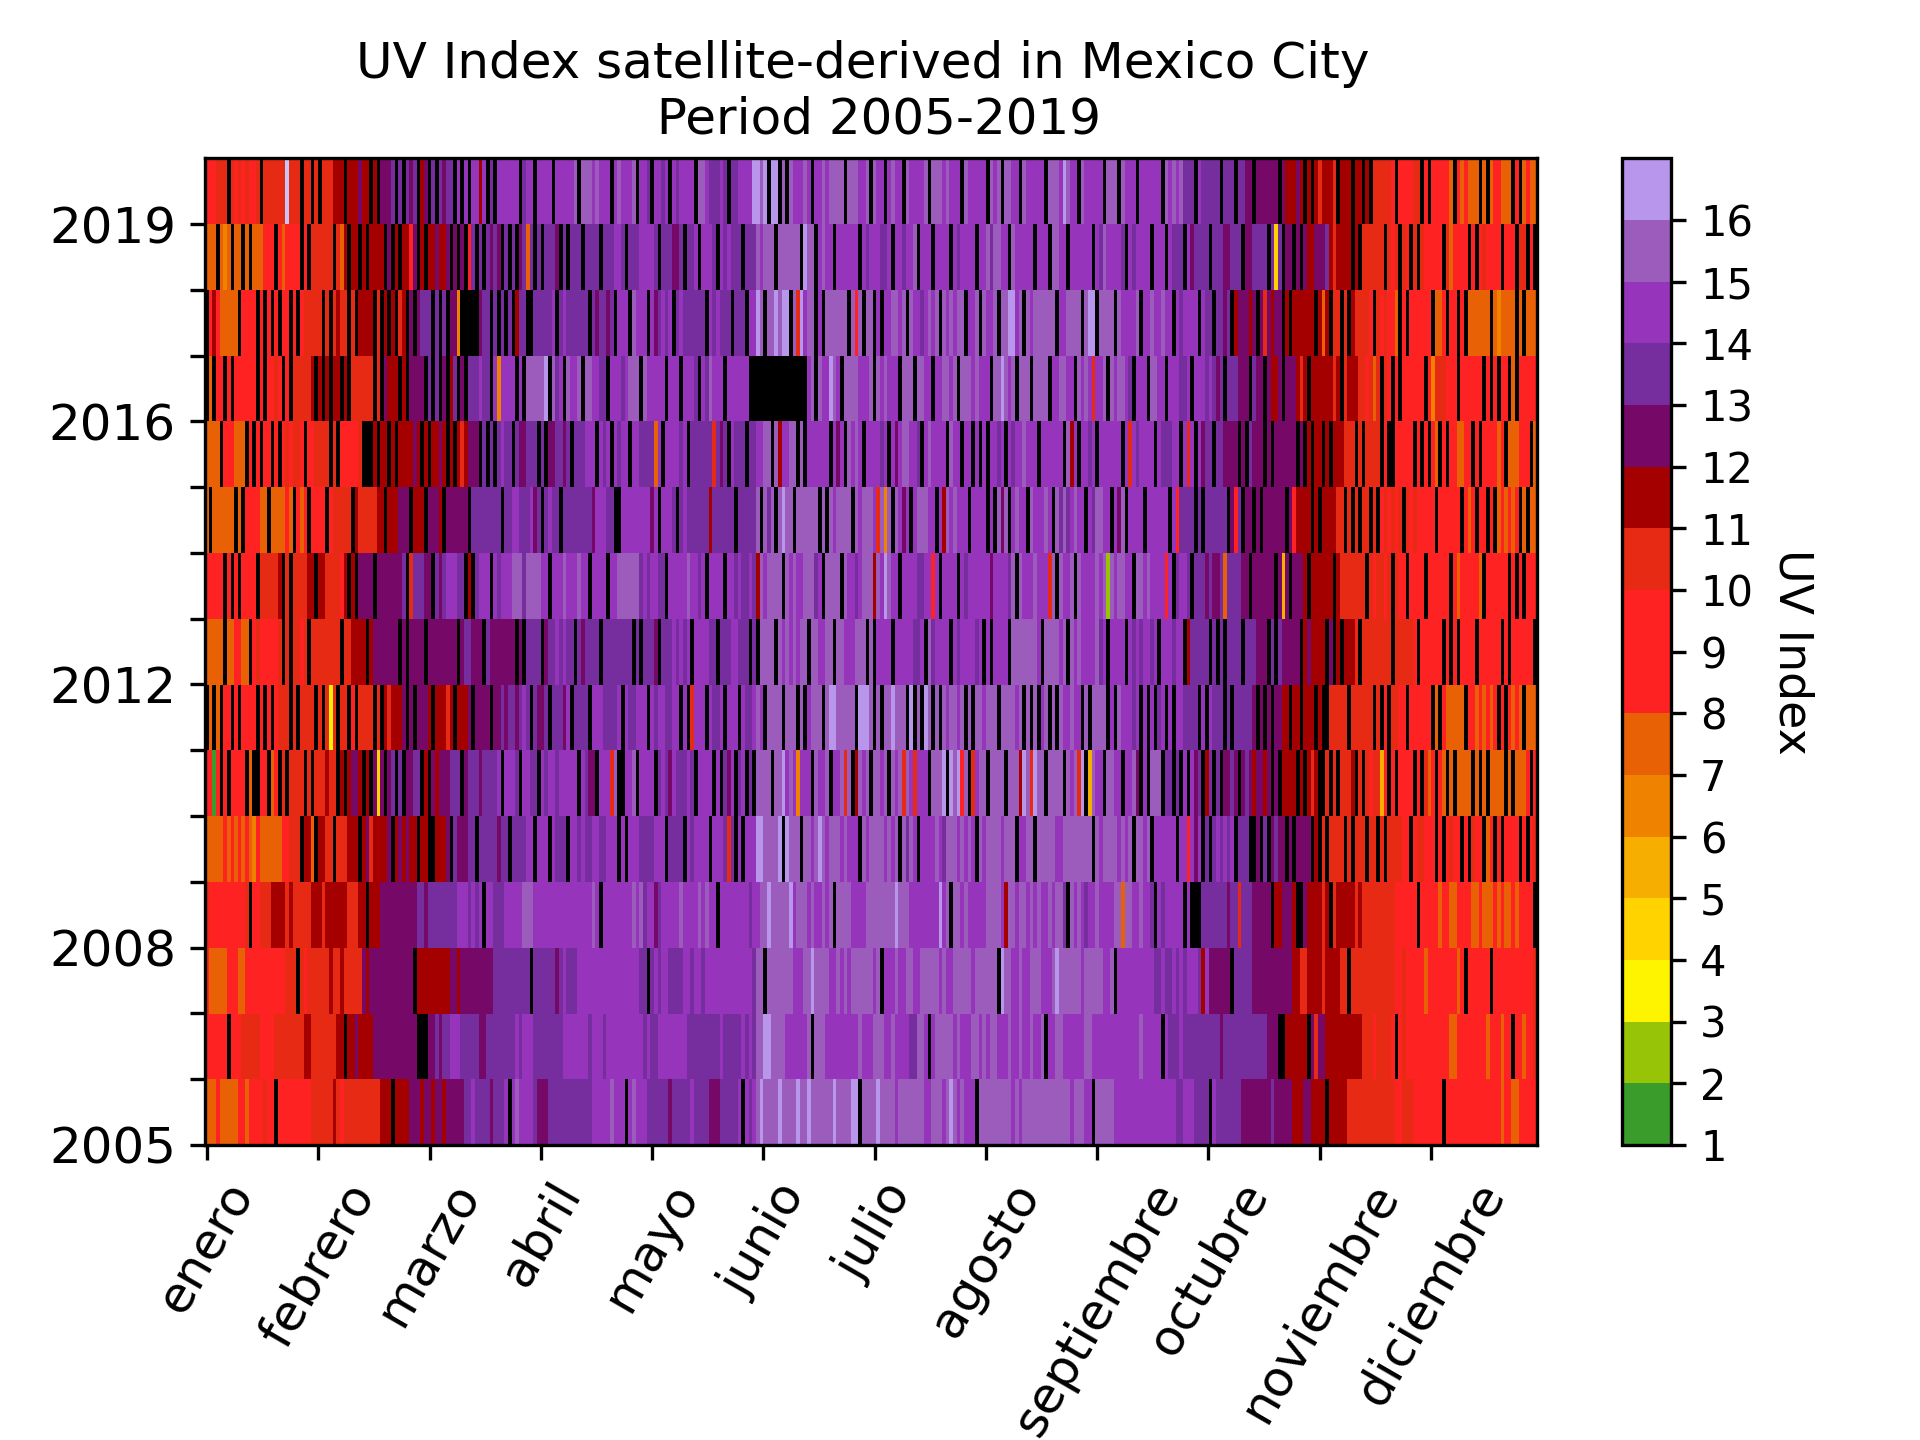
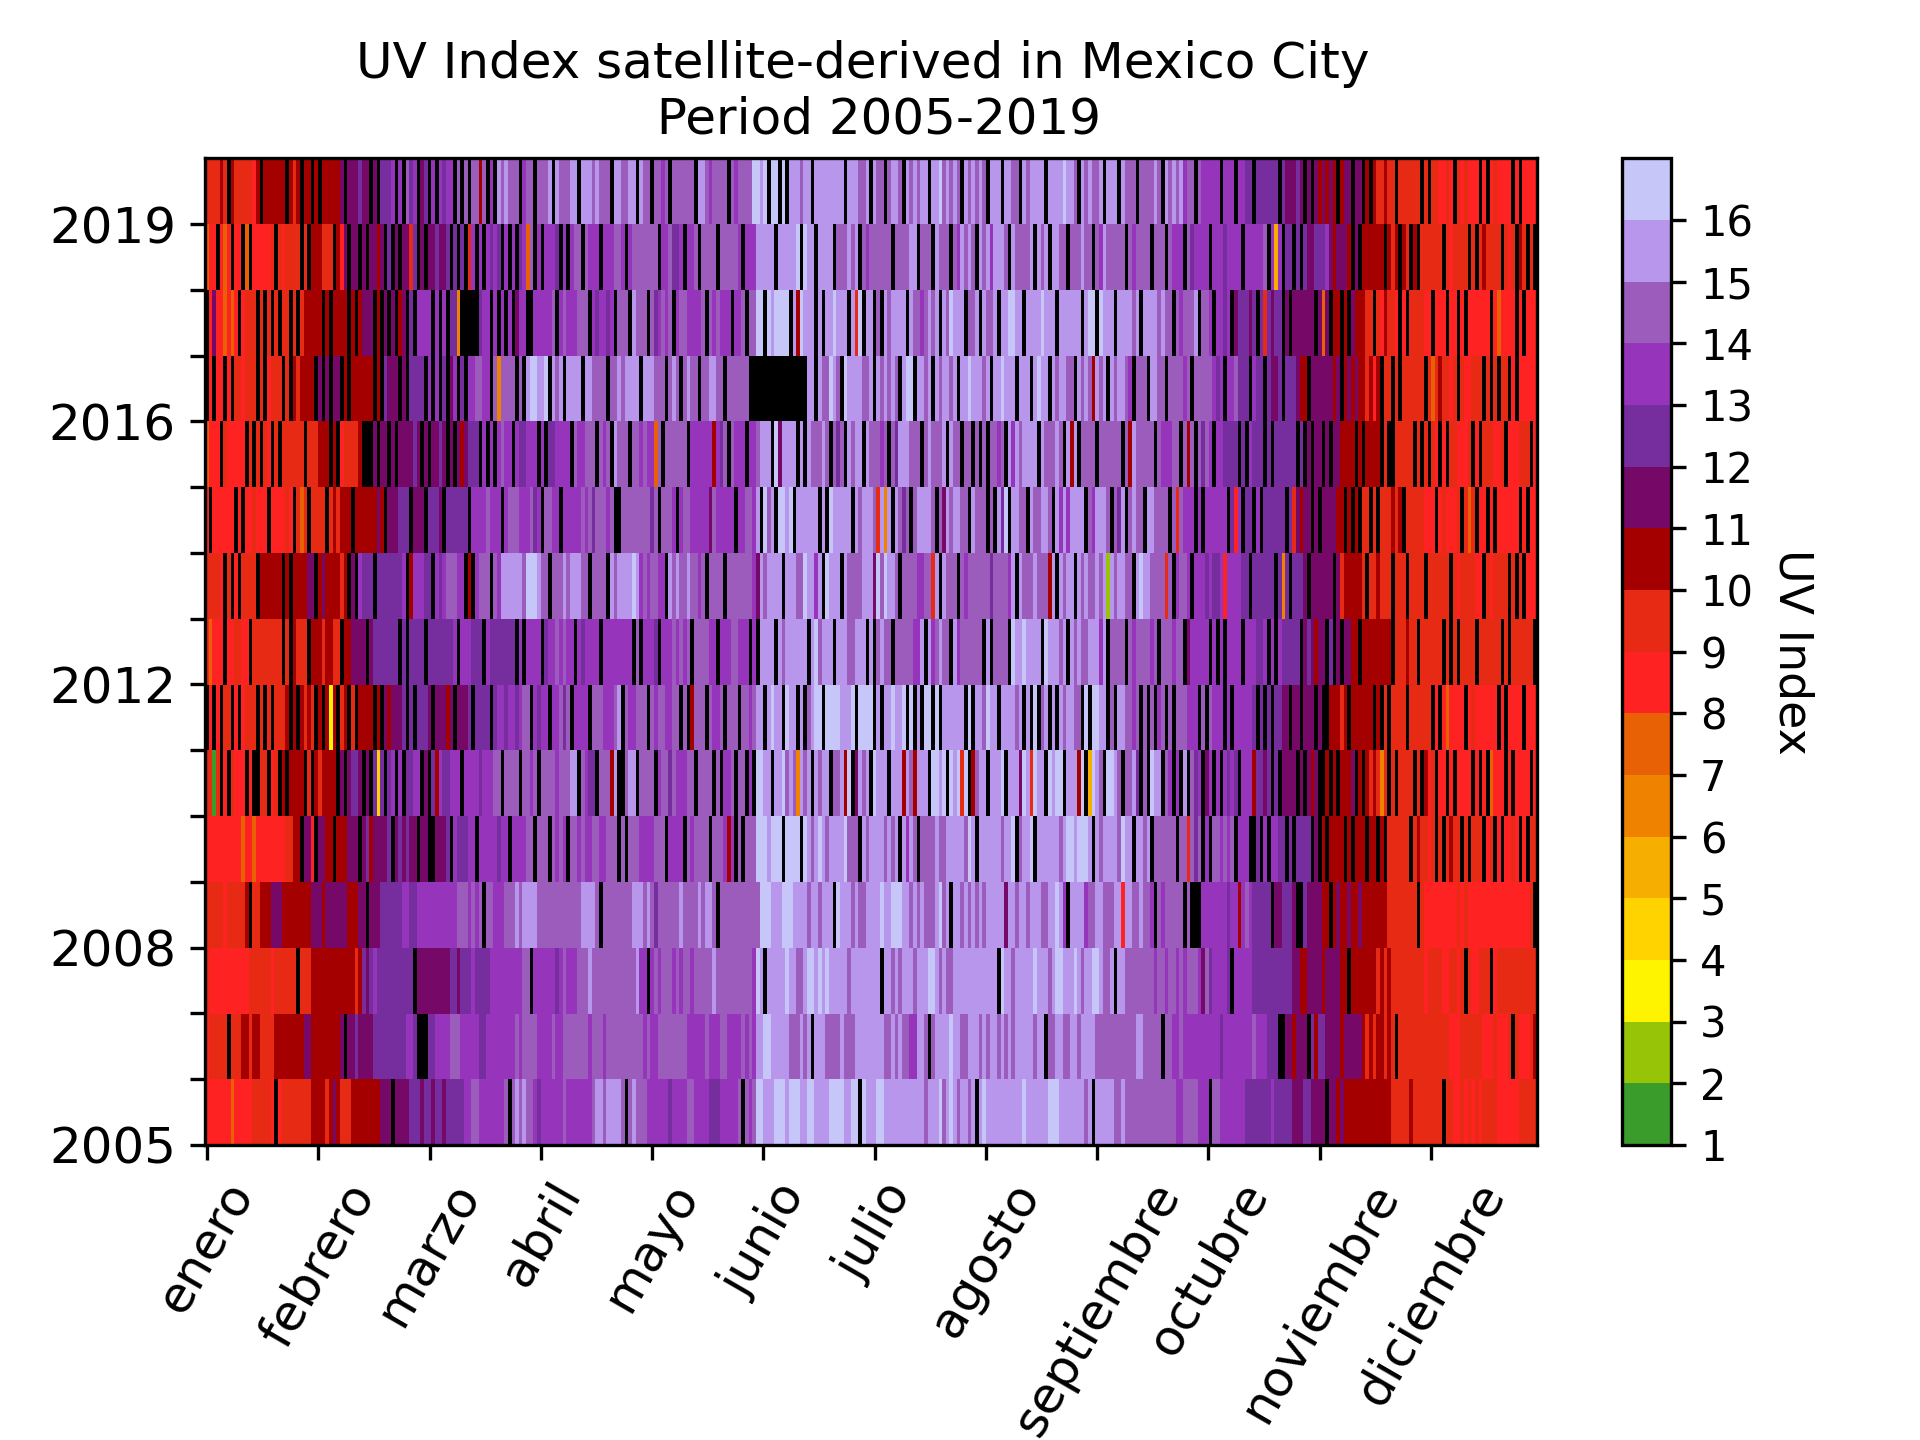
Define UVI-OMI limit as 18

diff --git a/2000-2019/Scripts/Read_OMI_data.py b/2000-2019/Scripts/Read_OMI_data.py
@@ -34,7 +34,7 @@ inputs = {
     "file data": "Data_OMI_",
     "product": "OMUVB",
     "skiprows": 50,
-    "UVI limit": 20,
+    "UVI limit": 18,
     "UVIcolumns": ["OPUVindex", "CSUVindex", "UVindex"],
     "file results": "UVI_"
 }
@@ -45,7 +45,7 @@ data = clean_data(data,
                   inputs["UVIcolumns"])
 data = obtain_data_in_period(data,
                              "2005-01-01",
-                             "2017-12-31")
+                             "2019-12-31")
 data = drop_data_useless(data,
                          inputs["UVIcolumns"],
                          inputs["UVI limit"])

diff --git a/2000-2019/Scripts/Graphics_UVI_OMI.py b/2000-2019/Scripts/Graphics_UVI_OMI.py
@@ -21,7 +21,7 @@ numyear = ["2005",
 inputs = {
     "path data": "../Archivos/",
     "path graphics": "../Graphics/",
-    "column": "CSUVindex",
+    "column": "OPUVindex",
     "year initial": 2005,
     "year final": 2019,
     "UV minium": 1,
